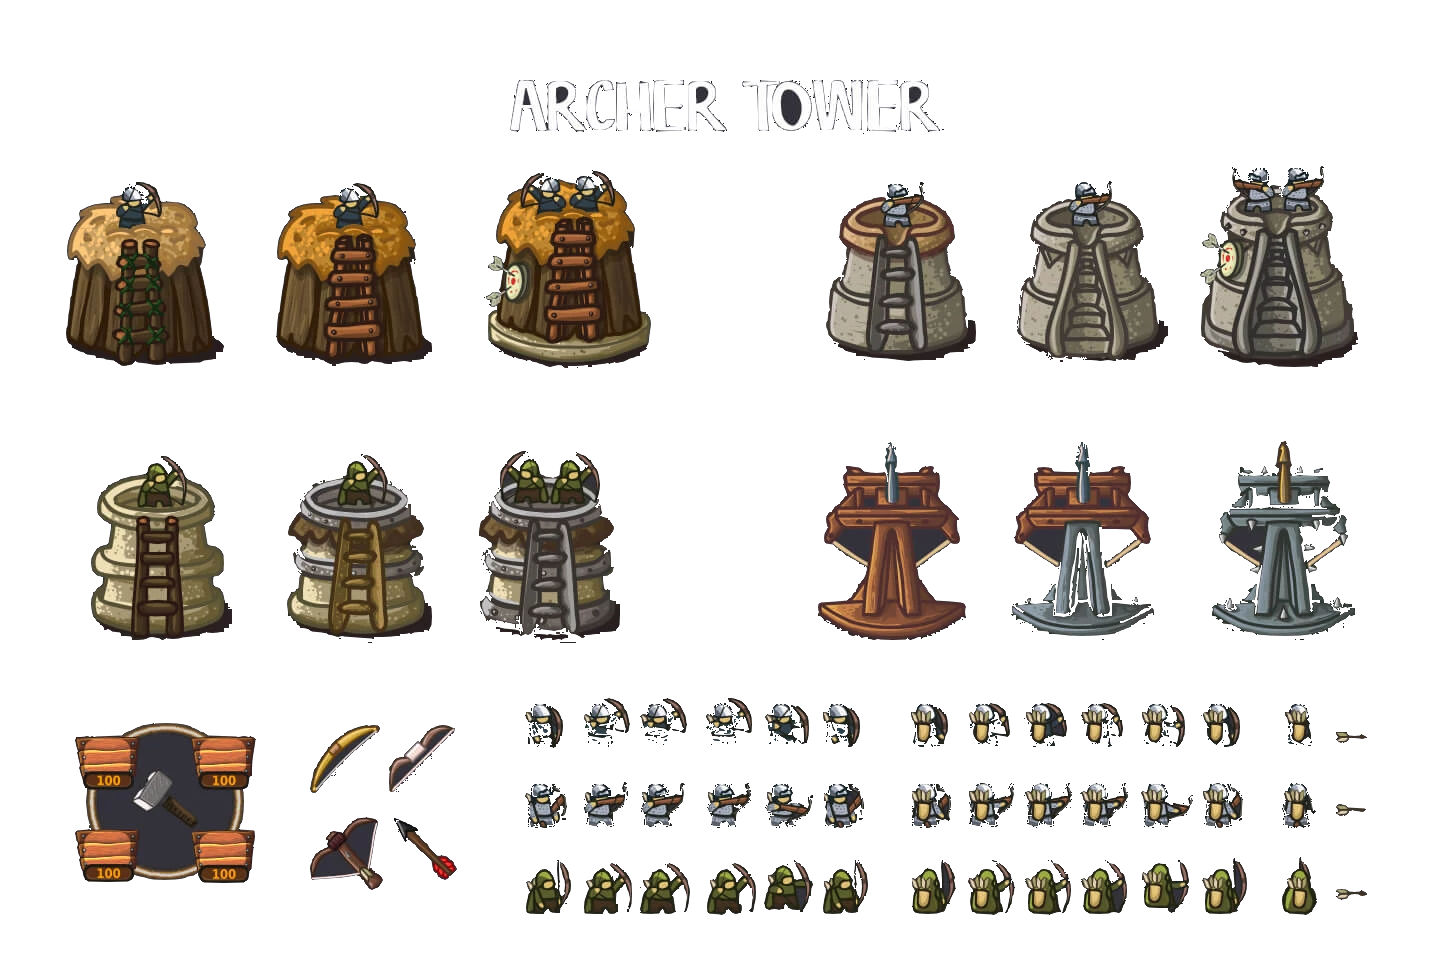
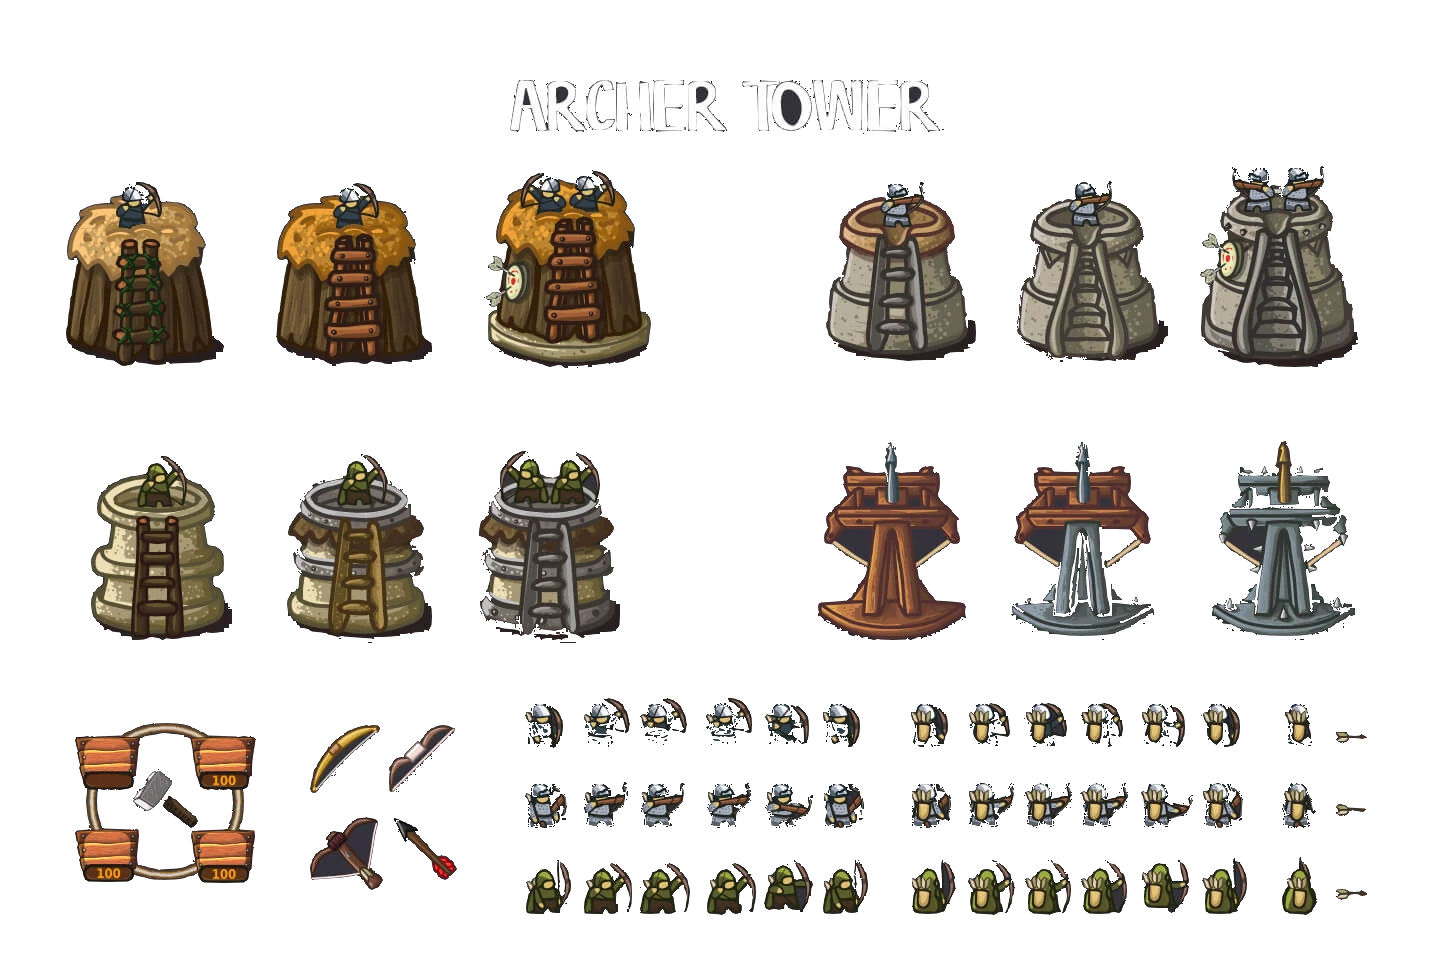
First iteration of context menu, kinda dirty

Changed region(s): [[0.0625, 0.75, 0.1875, 0.9062]]

diff --git a/GameObjects/GUI/ContextMenu.cs b/GameObjects/GUI/ContextMenu.cs
@@ -13,21 +13,40 @@ class ContextMenuItem : GameObject
 
     private Selectable _selectable;
     private object _value;
+    private Sprite _itemSprite { get; set; }
 
     public Sprite Sprite { get { return _selectable.Sprite; } }
     public CollisionShape Shape { get { return _selectable.Shape; } }
+    public bool IsSelected { get { return _selectable.IsSelected; } }
 
-    public ContextMenuItem(Sprite sprite, object value, Vector2 position, float scale)
+    public Label PriceLabel { get; set; }
+
+    public ContextMenuItem(Sprite itemSprite, object value, Vector2 position, float scale)
     {
-        _selectable = new Selectable(Vector2.Zero, 1f, 2, sprite.Texture, sprite.SourceRectangle, sprite.SourceRectangle) { Parent = this };
+        var sprite = AssetManager.GetAsset<Texture2D>("Towers/ArcherTower");
+        var source = new Rectangle(75, 735, 65, 55);
+
+        _selectable = new Selectable(Vector2.Zero, 1f, 2, sprite, source, source) { Parent = this };
         _selectable.OnDoubleSelect += HandleDoubleSelect;
         _value = value;
+
+        _itemSprite = itemSprite;
+        _itemSprite.Parent = this;
+
+        var wideSide = Math.Max(itemSprite.SourceRectangle.Width, itemSprite.SourceRectangle.Height);
+        var scaleItem = source.Width * scale / (float)wideSide / 1.5f;
+        _itemSprite.Scale = scaleItem;
+
+        PriceLabel = new(new Vector2(0, 18) * scale, 0.4f, "100") { Parent = this };
+        PriceLabel.TextColor = Color.Yellow;
+
         WorldPosition = position;
         Scale = scale;
     }
 
     private void HandleDoubleSelect(object sender, EventArgs args)
     {
+        _selectable.IsSelected = false;
         OnSelect?.Invoke(this, _value);
     }
 
@@ -44,6 +63,8 @@ class ContextMenuItem : GameObject
     public override void Draw(SpriteBatch spriteBatch)
     {
         _selectable.Draw(spriteBatch);
+        _itemSprite.Draw(spriteBatch);
+        PriceLabel.Draw(spriteBatch);
     }
 }
 
@@ -54,10 +75,16 @@ class ContextMenu : GameObject
 
     private List<ContextMenuItem> _menuItems;
 
-    public Sprite Sprite { get; set; }
-
     public float SizePerItem { get; set; }
     public bool Hidden { get; set; }
+
+    public ContextMenu(float size)
+    {
+        _menuItems = new();
+
+        Hidden = true;
+        SizePerItem = size;
+    }
 
     public override void HandleInput()
     {
@@ -69,23 +96,10 @@ class ContextMenu : GameObject
         }
     }
 
-    public ContextMenu(float size)
-    {
-        _menuItems = new();
-
-        var sprite = AssetManager.GetAsset<Texture2D>("Towers/ArcherTower");
-        var source = new Rectangle(70, 710, 185, 180);
-
-        Sprite = new(sprite, source) { Parent = this };
-
-        Hidden = true;
-        SizePerItem = size;
-    }
-
     private Vector2 GetPosition()
     {
-        var y = _menuItems.Count / 2 - 1 * 45;
-        var x = _menuItems.Count % 2 - 1 * 55;
+        var y = _menuItems.Count / 2 - 1 * SizePerItem;
+        var x = _menuItems.Count % 2 - 1 * SizePerItem;
 
         return new Vector2(x, y);
     }
@@ -108,6 +122,14 @@ class ContextMenu : GameObject
 
     public override void Update(GameTime gameTime)
     {
+        foreach (var item in _menuItems)
+        {
+            if (Hidden && item.IsSelected)
+            {
+                Hidden = false;
+            }
+        }
+
         if (Hidden) return;
 
         foreach (var item in _menuItems)
@@ -119,8 +141,6 @@ class ContextMenu : GameObject
     public override void Draw(SpriteBatch spriteBatch)
     {
         if (Hidden) return;
-
-        Sprite.Draw(spriteBatch);
 
         foreach (var item in _menuItems)
         {

diff --git a/GameObjects/Towers/Tower.cs b/GameObjects/Towers/Tower.cs
@@ -7,28 +7,28 @@ using Microsoft.Xna.Framework.Input;
 
 using TowerDefense;
 
-class Tower : GameObject
+public enum TowerType { Archer };
+
+abstract class Tower : GameObject
 {
-    private Selectable _selectable;
-    private WalkPath _walkPath;
-    private List<Node> _nodesInRadius;
-    private TowerPlot _plot;
+    protected Selectable _selectable;
+    protected WalkPath _walkPath;
+    protected List<Node> _nodesInRadius;
+    protected TowerPlot _plot;
 
     public Sprite Sprite { get { return _selectable.Sprite; } }
     public CollisionShape Shape { get { return _selectable.Shape; } }
 
     public float DetectRadius { get; set; }
 
-    public Tower(TowerPlot plot, WalkPath walkPath, float detectRadius, Vector2 position, float scale, Texture2D texture, Rectangle source)
+    public Tower(TowerPlot plot, WalkPath walkPath, float detectRadius, Vector2 position, float scale)
     {
-        position = plot.WorldPosition - new Vector2(0, source.Height / 5);
         plot.ZIndex = -1;
 
         _plot = plot;
         _plot.Disabled = true;
 
         _walkPath = walkPath;
-        _selectable = new Selectable(Vector2.Zero, 1f, 2, texture, source, source) { Parent = this };
         _nodesInRadius = _walkPath.GetNodesInRadius(WorldPosition, DetectRadius);
 
         DetectRadius = detectRadius;
@@ -49,11 +49,6 @@ class Tower : GameObject
     public override void Update(GameTime gameTime)
     {
         _selectable.Update(gameTime);
-
-        foreach (var enemy in _walkPath.GetEnemiesToPoints(_nodesInRadius))
-        {
-            enemy.TakeDamage(1);
-        }
     }
 
     public override void Draw(SpriteBatch spriteBatch)

diff --git a/GameObjects/Towers/TowerPlot.cs b/GameObjects/Towers/TowerPlot.cs
@@ -8,7 +8,7 @@ using TowerDefense;
 
 class TowerPlot : GameObject, ISaveable
 {
-    public event EventHandler OnTowerSelect;
+    public event EventHandler<TowerType> OnTowerSelect;
 
     private Selectable _selectable;
     private ContextMenu _contextMenu;
@@ -24,12 +24,22 @@ class TowerPlot : GameObject, ISaveable
         var source = new Rectangle(495, 635, 110, 50);
 
         _selectable = new Selectable(Vector2.Zero, 1f, 2, sprite, source, source) { Parent = this };
-        _contextMenu = new ContextMenu(50f) { Parent = this };
+        _contextMenu = new ContextMenu(80f) { Parent = this };
 
-        _contextMenu.AddItem(Sprite, 1);
+        var archerTexture = AssetManager.GetAsset<Texture2D>("Towers/ArcherTower");
+        var archerSource = new Rectangle(390, 815, 65, 65);
+        var archerSprite = new Sprite(archerTexture, archerSource);
+        _contextMenu.AddItem(archerSprite, TowerType.Archer);
+        _contextMenu.OnSelect += HandleSelectTower;
 
         WorldPosition = position;
         Scale = scale;
+    }
+
+    private void HandleSelectTower(object sender, object value)
+    {
+        var towerType = (TowerType)value;
+        OnTowerSelect?.Invoke(this, towerType);
     }
 
     public override void HandleInput()
@@ -42,8 +52,6 @@ class TowerPlot : GameObject, ISaveable
 
     public override void Update(GameTime gameTime)
     {
-        if (Disabled) return;
-
         _contextMenu.Hidden = !_selectable.IsSelected;
 
         _selectable.Update(gameTime);

diff --git a/GameObjects/Towers/ArcherTower.cs b/GameObjects/Towers/ArcherTower.cs
@@ -1,0 +1,30 @@
+using System;
+using System.Collections.Generic;
+using System.Diagnostics;
+using Microsoft.Xna.Framework;
+using Microsoft.Xna.Framework.Graphics;
+using Microsoft.Xna.Framework.Input;
+
+using TowerDefense;
+
+
+class ArcherTower : Tower
+{
+    public ArcherTower(TowerPlot plot, WalkPath walkPath, float detectRadius, Vector2 position, float scale) : base(plot, walkPath, detectRadius, position, scale)
+    {
+        var sprite = AssetManager.GetAsset<Texture2D>("Towers/ArcherTower");
+        var source = new Rectangle(65, 180, 160, 185);
+
+        _selectable = new Selectable(Vector2.Zero, 1f, 3, sprite, source, source) { Parent = this };
+    }
+
+    public override void Update(GameTime gameTime)
+    {
+        base.Update(gameTime);
+
+        foreach (var enemy in _walkPath.GetEnemiesToPoints(_nodesInRadius))
+        {
+            enemy.TakeDamage(1);
+        }
+    }
+}

diff --git a/GameStates/GameLevelState.cs b/GameStates/GameLevelState.cs
@@ -25,6 +25,21 @@ public class GameLevelState : GameState
         foreach (var gameObject in MetaManager.LoadLevelEditor(filename))
         {
             AddGameObject(gameObject);
+            if (gameObject is TowerPlot plot)
+            {
+                plot.OnTowerSelect += HandleTowerSelect;
+            }
+        }
+    }
+
+    private void HandleTowerSelect(object sender, TowerType type)
+    {
+        var plot = (TowerPlot)sender;
+
+        if (type == TowerType.Archer)
+        {
+            var tower = new ArcherTower(plot, walkPath, 400, plot.WorldPosition, plot.Scale);
+            AddGameObject(tower);
         }
     }
 

diff --git a/Components/Sprite.cs b/Components/Sprite.cs
@@ -36,8 +36,11 @@ public class Sprite
         }
     }
 
+    public float Scale { get; set; }
+
     public Sprite(Texture2D texture, Rectangle source)
     {
+        Scale = 1f;
         AccentColor = Color.White;
         Texture = texture;
         SourceRectangle = source;
@@ -52,7 +55,7 @@ public class Sprite
             AccentColor,
             Parent.Rotation,
             Origin,
-            Parent.Scale,
+            Parent.Scale * Scale,
             SpriteEffects.None,
             0
         );
